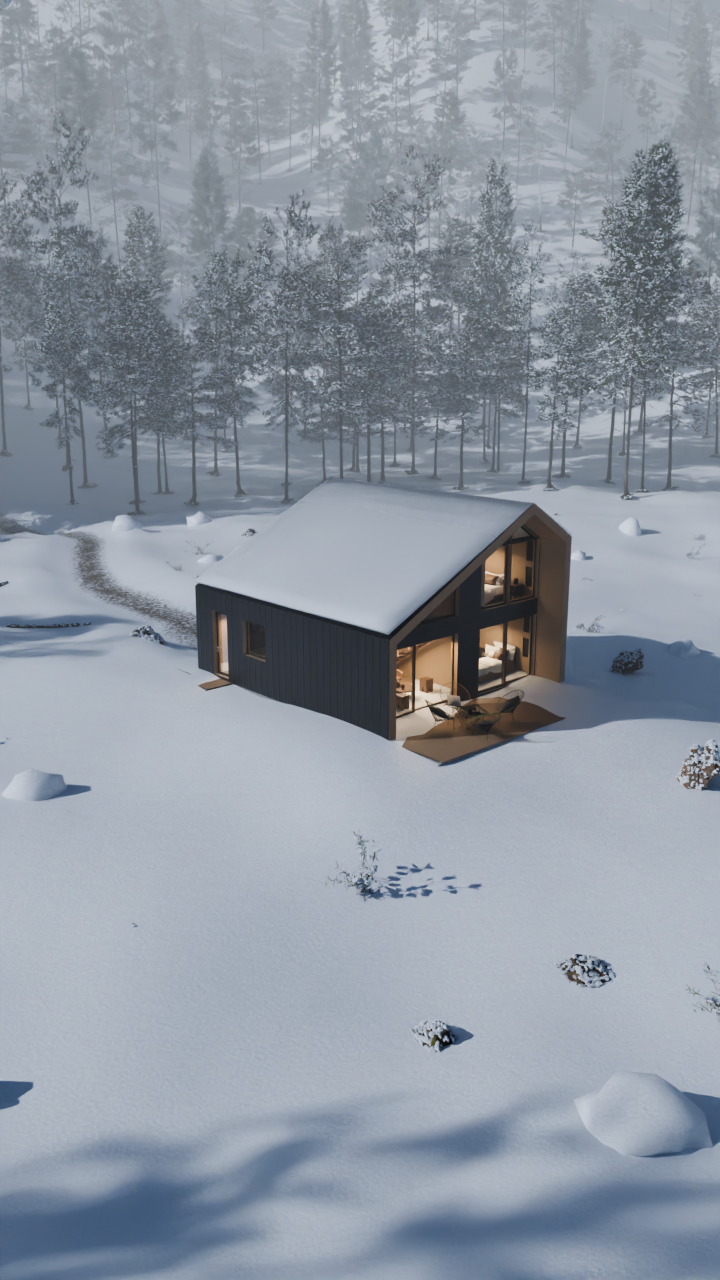
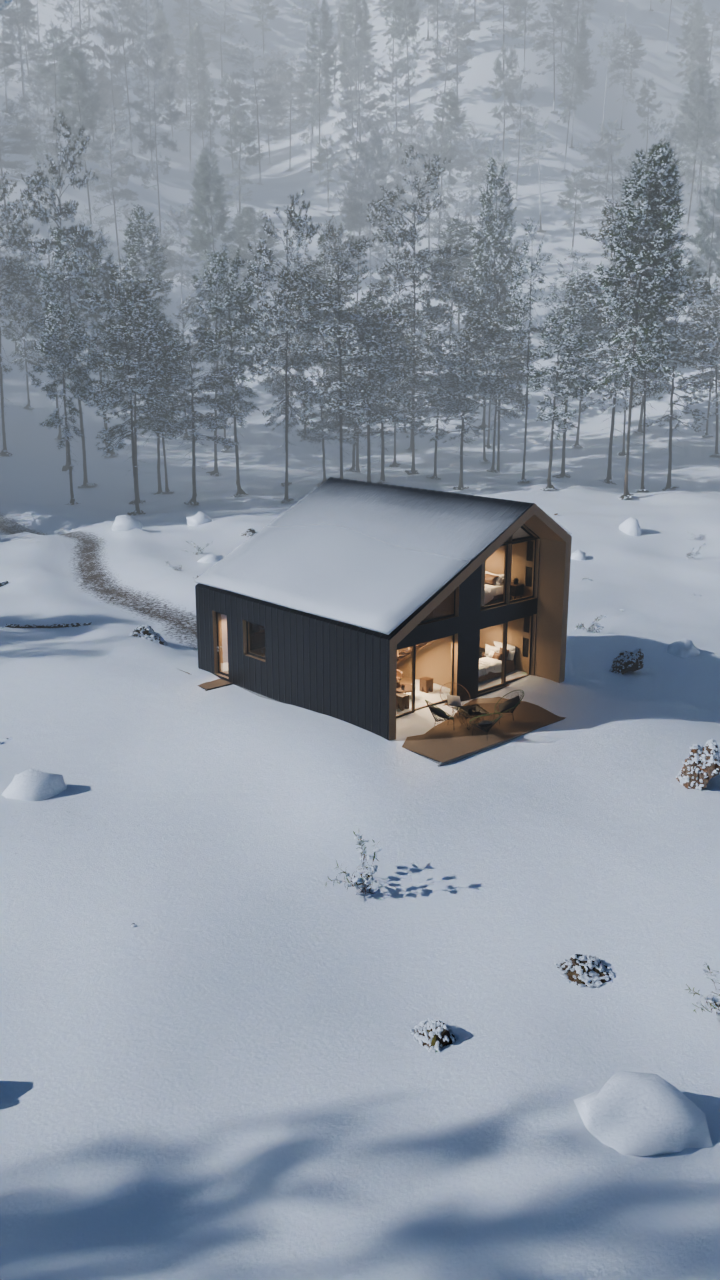
Peumo: el degradé del techo hasta ver la chapa
La nieve arranca tan fina en la cumbrera que se ve el negro del techo, y gana hasta
taparlo del todo contra el alero, cambiando parejo en todo el faldón.

Claude-Session: https://claude.ai/code/session_01EHD4cEPhnZPJhpXhvTg9hJ

Changed region(s): [[0.4278, 0.375, 0.7333, 0.4375]]

diff --git a/casa_peumo_3d.py b/casa_peumo_3d.py
@@ -817,13 +817,14 @@ def nieve_sobre_techo(casco, M):
         at_e = nt.nodes.new("ShaderNodeAttribute")
         at_e.name = "EspesorAlfa"
         at_e.attribute_name = "espesor"
-        # El degradé va de punta a punta del faldón: casi transparente en la cumbrera, opaco
-        # contra el alero, cambiando parejo en todo el tramo. Concentrarlo arriba partía el techo
+        # El degradé va de punta a punta del faldón: en la cumbrera la nieve es tan fina que se
+        # ve la chapa negra, y gana hasta tapar del todo contra el alero, cambiando parejo en
+        # todo el tramo. Concentrarlo arriba partía el techo
         # en dos zonas; dejarlo corto lo devolvía a un blanco entero sin degradé.
         ramp = nt.nodes.new("ShaderNodeMapRange")
         ramp.interpolation_type = "LINEAR"
         ramp.inputs[1].default_value, ramp.inputs[2].default_value = 0.03, 0.30
-        ramp.inputs[3].default_value, ramp.inputs[4].default_value = 0.14, 1.0
+        ramp.inputs[3].default_value, ramp.inputs[4].default_value = 0.0, 1.0
         nt.links.new(at_e.outputs["Fac"], ramp.inputs[0])
         nt.links.new(ramp.outputs[0], bsdf.inputs["Alpha"])
     at = me.attributes.new("espesor", "FLOAT", "POINT")
